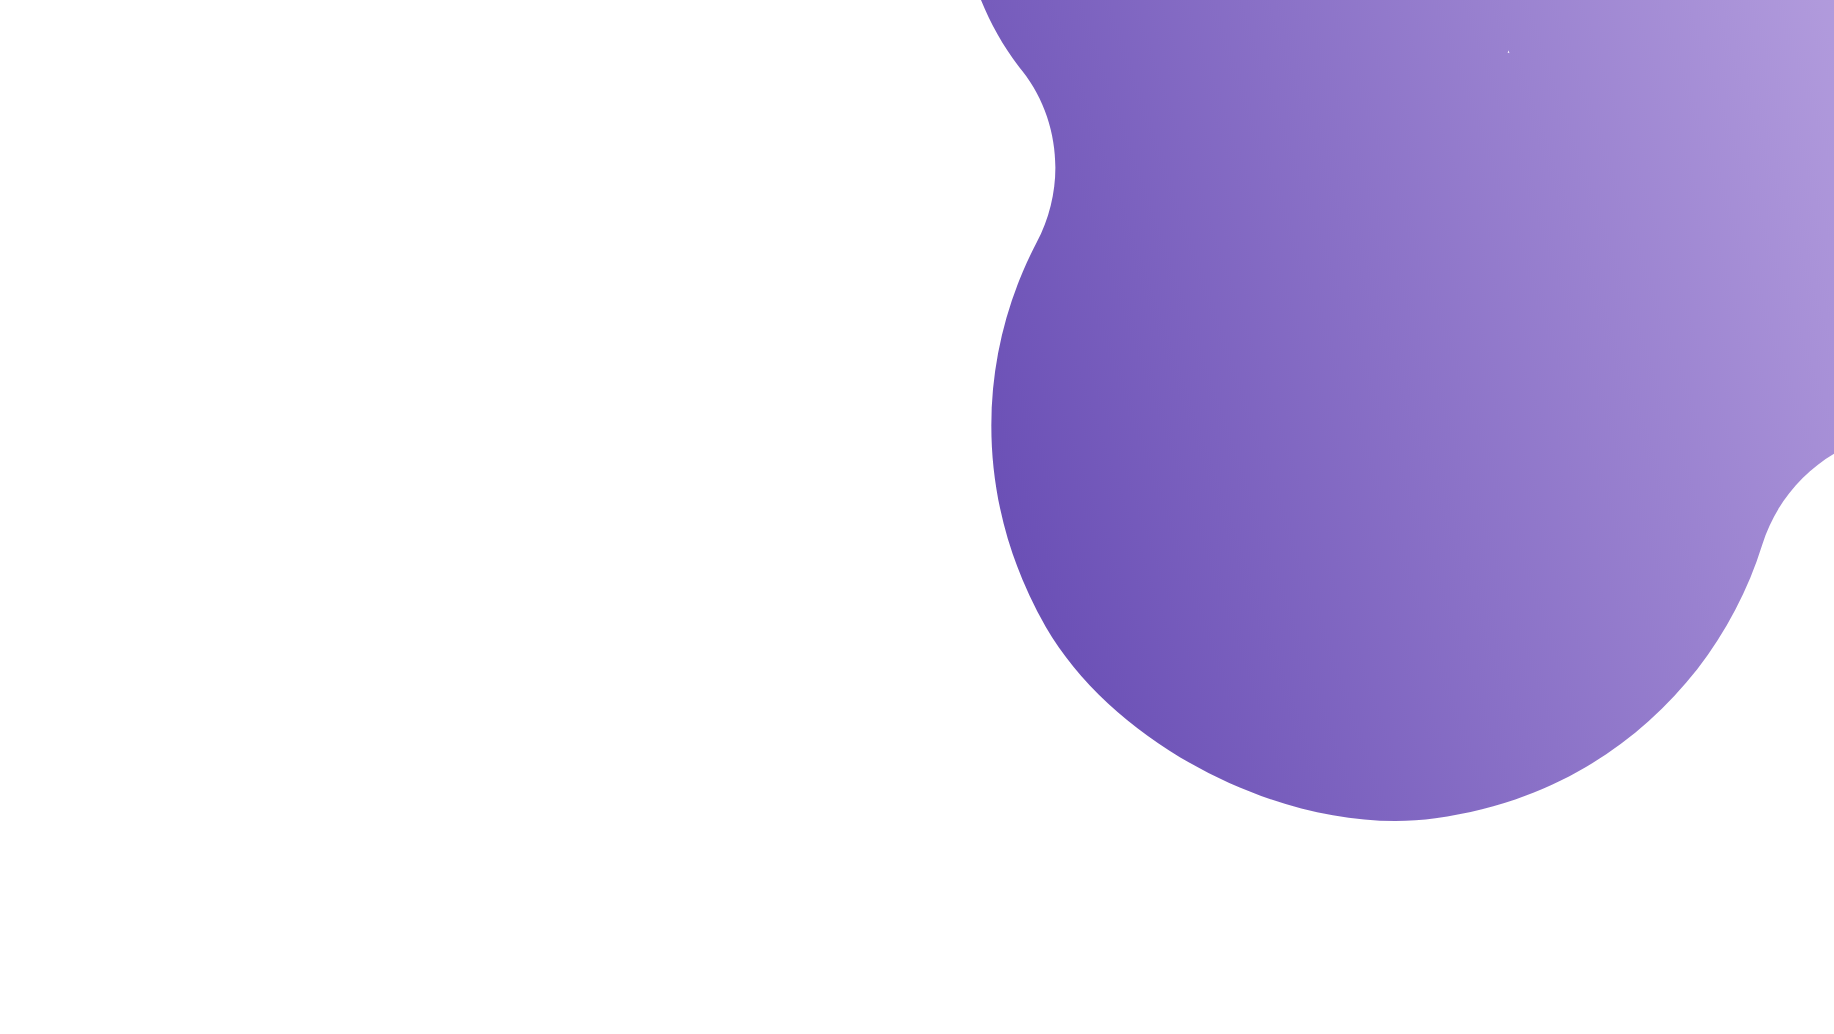
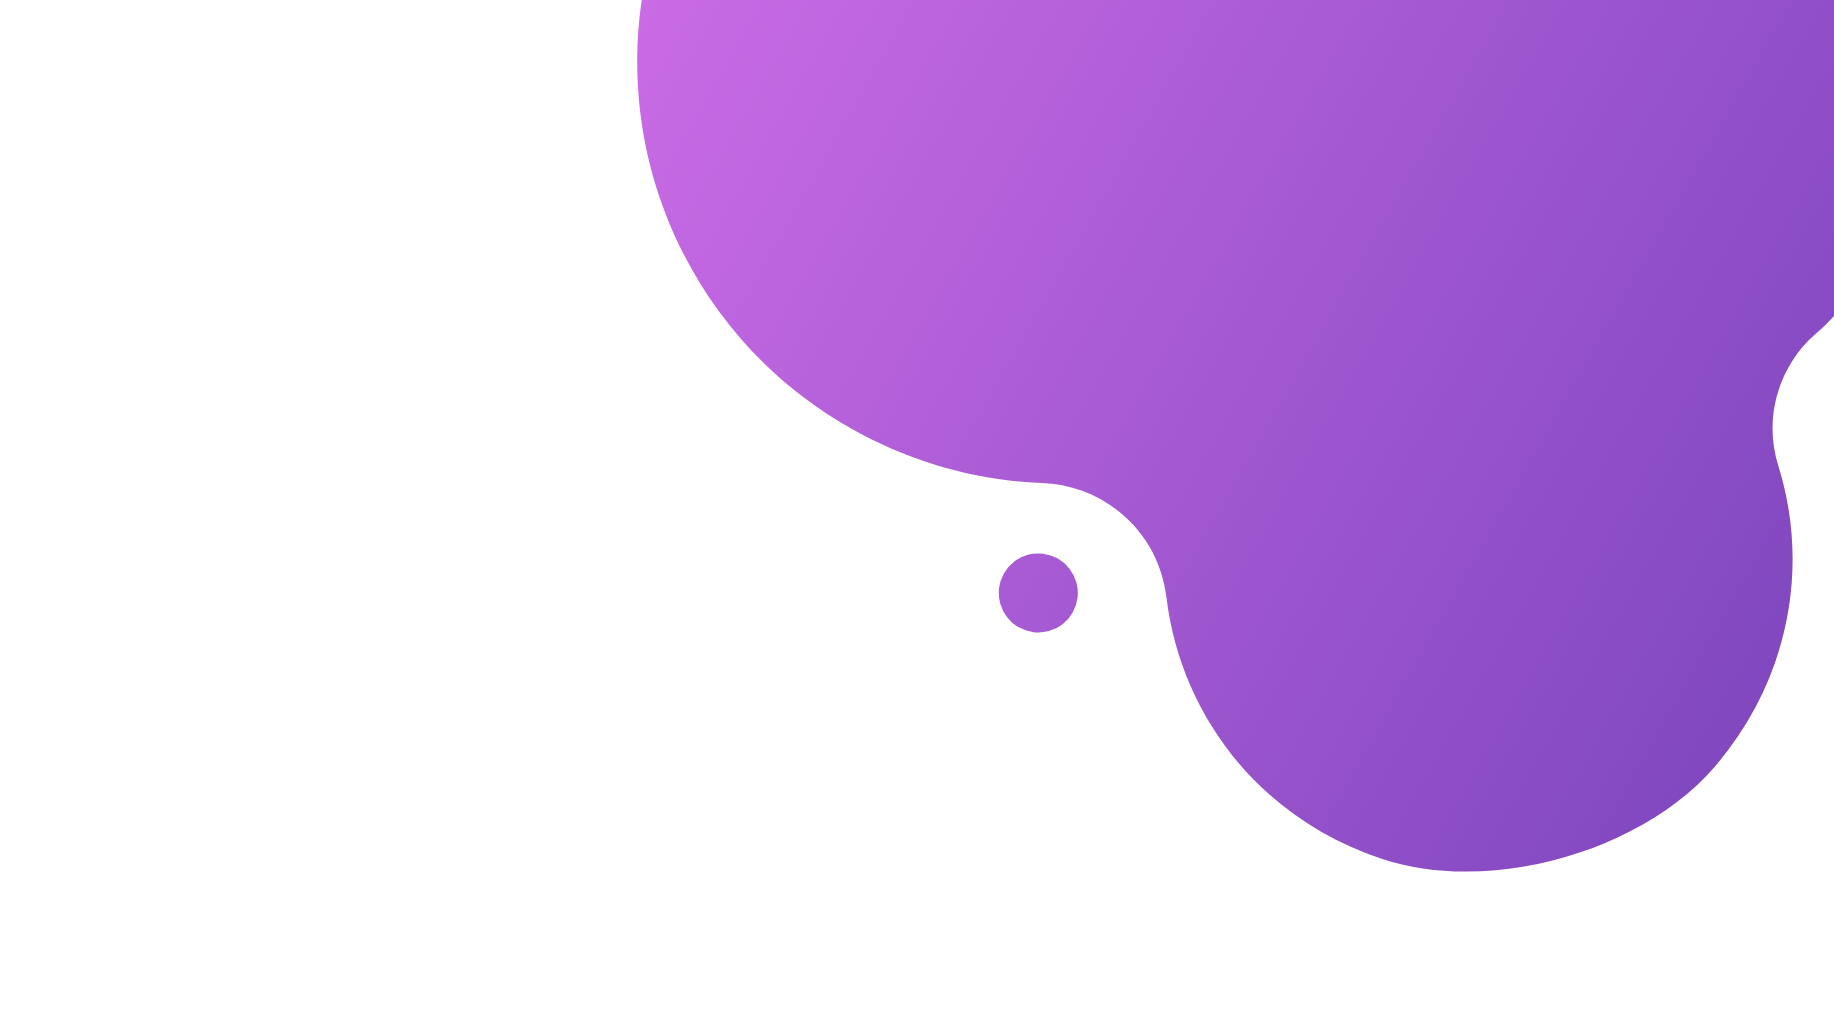
top image update
- Updates image to improve layout responsiveness and more accurate color scheme

diff --git a/index.html b/index.html
@@ -94,7 +94,7 @@
     </header>
     
 	<!-- Topmost Content Section -->
-	<section class="pb-5">
+	<section class="pb-5 ">
 		<div class="container-fluid top-banner">
 			<div class="row">
 				<div class="col-md-6 my-auto top-banner-left">
@@ -115,84 +115,85 @@
 					<img id="top-banner-mockup" src="./assets/images/bookdrops-mock-main-screen.png" alt="Dropbooks main screen example" height="600px">
 				</div>
 			</div>
-    </section>
-	
+	</section>
+
+
 	<!-- Features Section -->
-    <section class="py-5 gray-bg">
+    <section class="py-5 gray-bg ">
         <div class="container">
 			<div class="row mb-3">
-				<h3>How it works:</h3>
+				<h3 class="mx-3">How it works:</h3>
 			</div>
             <div class="row">
 
-                <div class="col-sm-6 my-auto col-lg-4 feature-card">
-					<div class="row">
+                <div class="col-sm-6 col-lg-4 my-3 feature-card">
+					<div class="row ">
 						<div class="col align-self-center d-flex justify-content-center">
 							<img src="./assets/images/icons/profile.png" alt="">							
 						</div>
-						<div class="col-8 border-left pt-2">
+						<div class="col-8 border-left">
 							<h5 class="">Your Profile</h5>
-							<p class="">create your profile, show us your interests and tell us what you enjoy reading.</p>
+							<p class="feature-p">create your profile, show us your interests and tell us what you enjoy reading.</p>
 						</div>
 					</div>         
 				</div>
 				
-				<div class="col-sm-6 col-lg-4 my-auto feature-card">
+				<div class="col-sm-6 col-lg-4 my-3 feature-card">
 					<div class="row">
 						<div class="col align-self-center d-flex justify-content-center">
 							<img src="./assets/images/icons/choose.png" alt="">							
 						</div>
 						<div class="col-8 border-left pt-2">
 							<h5 class="">You're in Control</h5>
-							<p class="">Fine-tune the suggestions through your interests, reviews and books read.</p>
+							<p class="feature-p">Fine-tune the suggestions through your interests, reviews and books read.</p>
 						</div>
 					</div>         
 				</div>
 
-				<div class="col-sm-6 col-lg-4 my-auto feature-card">
+				<div class="col-sm-6 col-lg-4 my-3 feature-card">
 					<div class="row">
 						<div class="col align-self-center d-flex justify-content-center">
 							<img src="./assets/images/icons/gift-box.png" alt="">							
 						</div>
 						<div class="col-8 border-left pt-2">
 							<h5 class="">To Your Doorstep</h5>
-							<p class="">The books are delivered directly to your address. <br> A new surprise every month!</p>
+							<p class="feature-p">The books are delivered directly to your address. <br> A new surprise every month!</p>
 						</div>
 					</div>         
 				</div>
 
-				<div class="col-sm-6 col-lg-4  my-auto feature-card">
+				<div class="col-sm-6 col-lg-4 my-3 feature-card">
 					<div class="row">
 						<div class="col align-self-center d-flex justify-content-center">
 							<img src="./assets/images/icons/books.png" alt="">							
 						</div>
 						<div class="col-8 border-left pt-2">
 							<h5 class="">Your Bookshelf</h5>
-							<p class="">Create your online bookshelf and show the world your collection.</p>
+							<p class="feature-p">Create your online bookshelf and show the world your collection.</p>
 						</div>
 					</div>         
 				</div>
 				
-				<div class="col-sm-6 col-lg-4  my-auto feature-card">
+				<div class="col-sm-6 col-lg-4 my-3 feature-card">
 					<div class="row">
 						<div class="col align-self-center d-flex justify-content-center">
 							<img src="./assets/images/icons/review.png" alt="">							
 						</div>
 						<div class="col-8 border-left pt-2">
 							<h5 class="">Your Point of View</h5>
-							<p class="">Review the books you've read and also read and interact with other user's reviews.</p>
+							<p class="feature-p">Review the books you've read and also read and interact with other user's reviews.</p>
 						</div>
 					</div>         
 				</div>
 
-				<div class="col-sm-6 col-lg-4  my-auto feature-card">
+				<div class="col-sm-6 col-lg-4 my-3 feature-card">
 					<div class="row">
 						<div class="col align-self-center d-flex justify-content-center">
 							<img src="./assets/images/icons/feedback.png" alt="">							
 						</div>
 						<div class="col-8 border-left pt-2">
 							<h5 class="">Community-Driven</h5>
-							<p class="">Join discussion and study groups, build a reputation and become a specialist.</p>
+							<p class="feature-p">Join discussion and study groups, build a reputation and become a specialist.</p>
 						</div>
 					</div>         
 				</div>
@@ -202,7 +203,7 @@
     </section>
 
 	<!-- Reading genres -->
-	<section class="my-5 ">
+	<section class="my-5">
 		<div class="container">
 			<div class="row align-items-center">
 
@@ -240,7 +241,7 @@
 					<div class="row justify-content-center text-center">
 						<div class="col-xs-4 mx-4">
 							<div class="genre-box hvr-glow d-flex justify-content-center align-items-center">
-								<i class="fas fa-praying-hands fa-2x"></i>
+								<i class="fas fa-pray fa-2x"></i>
 							</div>
 							<p class="small">Religious</p>
 						</div>
@@ -256,7 +257,7 @@
 							<div class="genre-box hvr-glow d-flex justify-content-center align-items-center">
 								<i class="fas fa-graduation-cap fa-2x"></i>
 							</div>
-							<p class="small ">Academic</p>
+							<p class="small genre-p">Academic</p>
 						</div>
 					</div>
 
